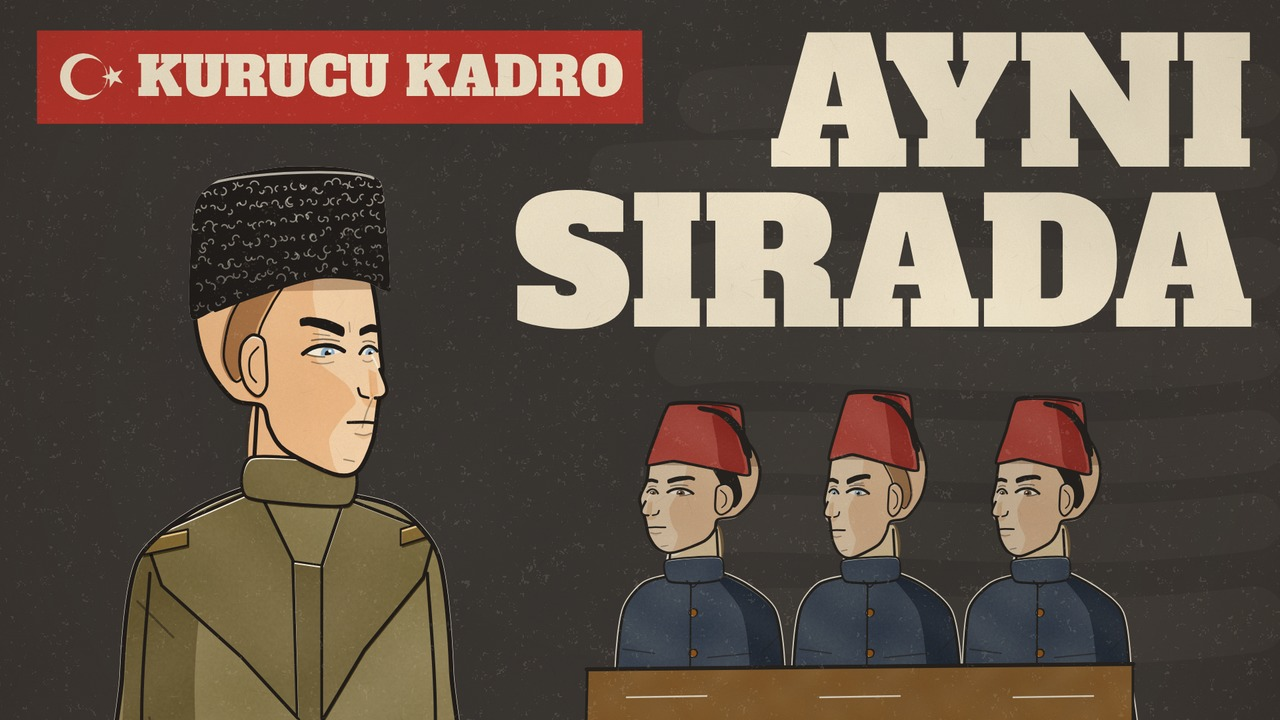
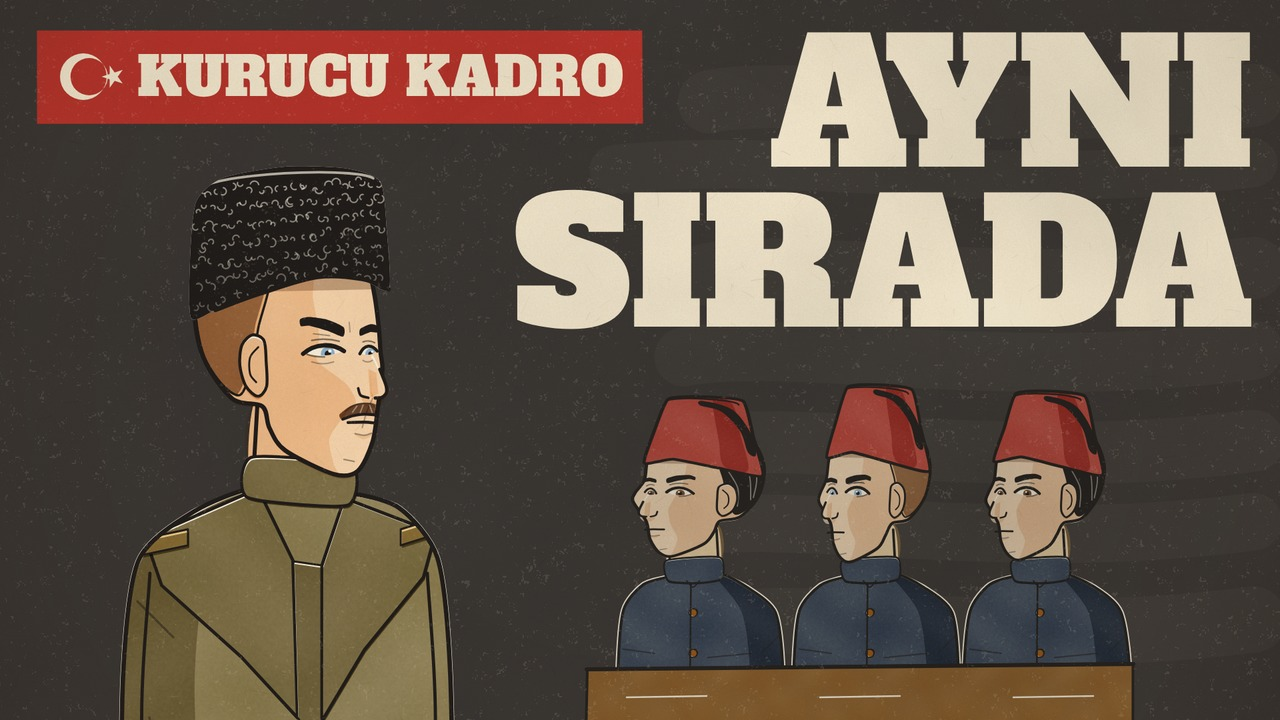
29 Ekim: kapaklar 8. turda yeniden 10/10 (fotoğraflara uygun bıyık); sanat kurulu ortak ilkelleri (ense saçı, opak sakal, çocuk yüzü, tek siluet el, düz gövde altı, yan ayırma konturu, kayık baskı geçişi); bölüm düzeltmeleri
Claude-Session: https://claude.ai/code/session_01DiDBP9nt13NfhJBgndipC7

diff --git a/cumhuriyet/lib/people.js b/cumhuriyet/lib/people.js
@@ -27,6 +27,8 @@ const PEOPLE = {
 // Birimler: göz hizası 0, tepe -64, çene ucu +57; yüz +x'e bakar. Burun kökü iki gözün arasında (19,-7); uzak göz burun sırtının ötesinde.
 function head3q(ctx, o) {
   const pp = { ...PEOPLE.anon, ...(PEOPLE[o.who] || {}), ...(o.id || {}) };
+  // çocuk yüzü (sanat kurulu): 16 yaş altında çene dar, yanak dolgun, göz açık, kaş yumuşak, baş gövdeye göre biraz büyük
+  if ((o.age ?? 30) < 16) { Object.assign(pp, { jaw: (pp.jaw || 1) * .92, cheek: (pp.cheek || 1) * 1.08, eyeOpen: .92, brow: 0, bags: 0, lines: 0, cheekWedge: 0 }); o = { ...o, s: o.s * 1.06 }; }
   const s = o.s, dir = o.dir || 1, lw = px => Math.max(1.7 / s, px * Math.pow(s / 1.3, .75) / s);
   const age = o.age ?? 38, sd = pp.seed;
   const yg = clamp(inv(28, 18, age)), old = clamp(inv(36, 44, age));
@@ -51,10 +53,10 @@ function head3q(ctx, o) {
   // saç
   const hairPl = pp.hair;
   let hp;
-  if (o.gear) hp = SP(rough([[-14, -36], [-30, -32], [-40, -18], [-44, 2], [-38, 14], [-30, 4], [-26, -12], [-20, -24]], .3, sd + 2), true, .9);
+  if (o.gear) hp = SP(rough([[-22, -40], [-46, -44], [-57, -26], [-55, -2], [-46, 14], [-36, 20], [-30, 6], [-27, -12]], .3, sd + 2), true, .9); // başlık altında ense saçı (sanat kurulu: baş arkası kel görünmesin)
   else hp = SP(rough([[24, -44], [16, -52], [10, -60], [-6, -67], [-30, -66], [-52, -52], [-61, -26], [-56, 4], [-42, 18], [-32, 8], [-28, -10], [-18, -34], [-4, -47], [6, -53], [14, -48]], .35, sd + 3), true, .85);
-  if (hairPl === 'ink') inkFill(ctx, hp);
-  else { plate(ctx, hairPl, hp, { a: hairPl === 'sepia' ? .55 : 1 }); if (hairPl === 'sepia') plate(ctx, 'gold', hp, { a: .3 }); inkStroke(ctx, hp, lw(1.8)); }
+  if (hairPl === 'ink') { inkFill(ctx, hp); if (o.gear) for (const q of [[[-30, -36], [-46, -20], [-48, 6]], [[-38, -38], [-52, -18], [-50, 4]], [[-26, -30], [-38, -6], [-38, 12]]]) cut(ctx, SP(q, false), lw(1.2), { a: .45 }); }
+  else { plate(ctx, hairPl, hp, { a: hairPl === 'sepia' ? (o.gear ? .7 : .55) : 1 }); if (hairPl === 'sepia') plate(ctx, 'gold', hp, { a: .3 }); inkStroke(ctx, hp, lw(1.8)); }
   if (!o.gear) for (let i = 0; i < 7; i++) { const u = i / 6, q = new Path2D(); q.moveTo(lerp(16, -20, u), lerp(-50, -40, u)); q.quadraticCurveTo(lerp(-10, -36, u), lerp(-66, -54, u), lerp(-44, -56, u), lerp(-46, -14, u)); hairPl === 'ink' ? cut(ctx, q, lw(1.2), { a: .5 }) : inkStroke(ctx, q, lw(1.2), { a: .6 }); }
   // kulak
   const E_ = pp.ear || 1, ear = SP(rough([[-24, -6], [-30, -9], [-35, -4], [-36, 6], [-33, 16], [-27, 21], [-23, 16], [-23, 4]].map(([x, y]) => [-24 + (x + 24) * E_, y]), .2, sd + 4), true, .9);
@@ -122,14 +124,16 @@ function head3q(ctx, o) {
     else if (mus === 'faint') m = [[17, 28.6], [24, 26.6], [31, 26.6], [33.4, 28], [30, 28.4], [24, 27.8], [18, 29.2]];
     else m = [[14, 29], [18.5, 26.4], [26, 24.6], [31, 25.6], [33.5, 27.6], [30, 28.6], [26, 27.8], [20, 29.2], [15, 30.2]];
     if (mus === 'mk') {
-      // Mustafa Kemal 1919–23: koyu, dolgun fırça bıyık; üst kenar burun dibini izler, alt kenar ağız çizgisine paralel ve düz,
-      // uçlar küt ve hafifçe düşük (kapak kurulu, Sivas 1919 / 1921 fotoğrafları)
-      const mk = PL(rough([[15.2, 26.3], [17.5, 25.2], [21, 24.4], [26, 23.9], [29.4, 24.2], [30.9, 25.1], [31.1, 28.2], [30.8, 30.4], [27, 29.9], [22, 29.7], [17.6, 29.9], [15.4, 30.5]], .08, sd + 6));
+      // Mustafa Kemal 1919–23 (Sivas 1919, 1921 fotoğrafları): ağız genişliğini aşan, dolgun ortadan uçlara incelen ve
+      // uçları hafifçe aşağı inen bıyık. Kısa dikdörtgen "fırça" biçiminden kaçınılır (kapak kurulu, 7. tur).
+      const top = [[13.6, 30.0], [15.6, 28.1], [18.6, 25.9], [22, 24.6], [25.2, 24.2], [28.5, 24.4], [31.1, 25.4]];
+      const bot = [[31.0, 30.0], [28.5, 29.7], [25.2, 29.6], [22, 29.8], [19, 30.4], [16.5, 31.2], [14.4, 32.0]];
+      const mk = SP(rough([...top, [31.4, 27.6], ...bot], .06, sd + 6), true, .7);
       // kâğıt örtüsü yok: kalıp tenin üstüne çarpılır, kayık baskı küçük bıyıkta beyaz boşluk açmaz
       { const r = REG.amt; REG.amt = Math.min(r, .6); plate(ctx, 'sepia', mk, { a: 1 }); plate(ctx, 'ink', mk, { a: .17 }); REG.amt = r; }
-      inkStroke(ctx, PL([[15.4, 30.5], [17.6, 29.9], [22, 29.7], [27, 29.9], [30.8, 30.4]], false), lw(2.2));
-      inkStroke(ctx, PL([[17.5, 25.2], [21, 24.4], [26, 23.9], [29.4, 24.2]], false), lw(1.1), { a: .6 });
-      for (const q of [[[20, 25.4], [21.2, 28.6]], [[25.4, 25], [26.4, 28.4]]]) cut(ctx, SP(q, false), lw(1.4), { a: .5 });
+      inkStroke(ctx, SP(bot, false, .7), lw(2.2));
+      inkStroke(ctx, SP(top.slice(1), false, .7), lw(1.1), { a: .55 });
+      for (const q of [[[21.4, 25.6], [19.2, 28.6]], [[24.4, 25.1], [23, 28.8]], [[27.6, 25.1], [28.8, 28.6]]]) cut(ctx, SP(q, false), lw(1.1), { a: .4 }); // kıllar ortadan dışa ve aşağı
     } else {
     const mP = SP(rough(m, .12, sd + 6), true, .9);
     knock(ctx, mP);
@@ -141,8 +145,9 @@ function head3q(ctx, o) {
     }
   }
   if (pp.beard) {
-    const bd = SP(rough([[-20, 30], [-12, 44], [2, 55], [14, 59], [24, 56], [30, 44], [31, 34], [26, 36.5], [20, 40.5], [12, 41.5], [4, 38], [-4, 33], [-12, 28]], .4, sd + 9), true, .8);
-    knock(ctx, bd); plate(ctx, pp.musCol || 'grey', bd, { a: .65 }); inkStroke(ctx, bd, lw(1.8));
+    // favoriden çeneye opak kırçıl sakal (saydam maske gibi durmasın); ağız çizgisi sakalın üstünde kalır
+    const bd = SP(rough([[-24, -4], [-27, 12], [-22, 30], [-10, 46], [2, 57], [14, 63], [24, 58], [31, 46], [31, 36], [26, 38], [20, 41.5], [12, 42.5], [4, 39], [-6, 31], [-13, 17], [-17, 3], [-19, -5]], .4, sd + 9), true, .8);
+    knock(ctx, bd); plate(ctx, pp.musCol || 'grey', bd, { a: 1 }); plate(ctx, 'sepia', bd, { a: .3 }); inkStroke(ctx, bd, lw(1.8));
     const r = rng(sd + 40); for (let i = 0; i < 22; i++) { const x = lerp(-16, 28, r()), y = lerp(38, 55, r()); inkStroke(ctx, PL([[x, y], [x + .6, y + 3]], false), lw(1), { a: .5 }); }
   }
   ctx.restore();
@@ -176,7 +181,7 @@ function headgear(ctx, o) {
     // alt kenar gölgesi alında
     inkStroke(ctx, SP([[-48, -18], [-26, -26], [2, -34], [24, -33], [37, -28]], false), lw(3.2));
   } else if (o.gear === 'fes') {
-    const body = SP(rough([[-50, -18], [-46, -52], [-42, -86], [-12, -90], [14, -88], [24, -58], [32, -28], [10, -32], [-22, -24]], .4, sd + 12), true, .5);
+    const body = SP(rough([[-57, -16], [-50, -52], [-42, -86], [-12, -90], [14, -88], [24, -58], [32, -28], [10, -32], [-22, -24]], .4, sd + 12), true, .5);
     knock(ctx, body); plate(ctx, 'red', body); plate(ctx, 'red', SP([[-46, -22], [-40, -56], [-34, -84], [-20, -88], [-24, -50], [-28, -26]], true), { a: .6 });
     inkStroke(ctx, body, lw(3.6));
     const top = new Path2D(); top.ellipse(-12, -84, 27, 4, -.06, PI, TAU); inkStroke(ctx, top, lw(2));
@@ -218,8 +223,15 @@ function bust(ctx, o) {
   knock(ctx, neck); if (o.skin) plate(ctx, 'skin', neck);
   plate(ctx, o.skin ? 'skin' : 'ochre', SP([[-28, 30], [-29.6, 66], [17, 66], [16, 60], [6, 56]], true), { a: o.skin ? .8 : .42 });
   inkStroke(ctx, SP([[-28, 34], [-29.6, 62]], false), lw(3.2)); inkStroke(ctx, SP([[15, 52], [16, 62]], false), lw(3));
-  const body = SP(rough([[-26, 74], [-64 * W_, 88], [-92 * W_, 112], [-100 * W_, 170], [-102 * W_, len], [74 * W_ * FS, len], [72 * W_ * FS, 168], [66 * W_ * FS, 110], [46 * W_ * FS, 86], [16, 78]], .7, sd), true, .75);
-  if (o.sep) inkStroke(ctx, body, 8 / s, { col: P.paper });
+  // gövde: yanlar ve omuzlar eğri, alt kenar düz (kapsül gibi yuvarlanmaz)
+  const bp = rough([[74 * W_ * FS, len], [72 * W_ * FS, 168], [66 * W_ * FS, 110], [46 * W_ * FS, 86], [16, 78], [-26, 74], [-64 * W_, 88], [-92 * W_, 112], [-100 * W_, 170], [-102 * W_, len]], .7, sd);
+  const body = new Path2D(); spl(body, bp, false, .75); body.closePath();
+  // ayırma konturu yalnız yan(lar)da: 'L' | 'R' ekran yanı, true iki yan; alt kenar ve boyun yok
+  if (o.sep) {
+    const near = bp.slice(0, 5), far = bp.slice(5);
+    const wantL = o.sep === true || o.sep === 'L', wantR = o.sep === true || o.sep === 'R';
+    for (const [side, pts] of [[dir > 0 ? 'R' : 'L', near], [dir > 0 ? 'L' : 'R', far]]) if ((side === 'L' && wantL) || (side === 'R' && wantR)) inkStroke(ctx, SP(pts, false, .75), 8 / s, { col: P.paper });
+  }
   knock(ctx, body); fillC(body);
   if (o.back) plate(ctx, col, body, { a: .35 });
   if (!dark) plate(ctx, col, SP([[-26, 74], [-64 * W_, 88], [-92 * W_, 112], [-100 * W_, 170], [-102 * W_, len], [-58, len], [-60, 170], [-52, 110]], true, .8), { a: .6 });
@@ -308,9 +320,13 @@ function handDraw(ctx, x, y, ang, s, kind = 'rest', o = {}) {
     for (const [yy, L, a] of [[-7, 40, -.06], [-2, 43, -.01], [3, 41, .04], [8, 36, .1]]) parts.push(SP([[22, yy - 2.7], [L, yy - 2.6 + a * 20], [L + 2.7, yy + a * 20], [L, yy + 2.6 + a * 20], [22, yy + 2.7]], true, .9));
     parts.push(SP([[8, -10], [20, -17], [32, -19], [30, -14], [16, -6]], true, .8));
   }
+  // tek siluet (sanat kurulu: iskelet gibi durmasın): önce birleşik yolun kalın dış hattı, üstüne kâğıt ve kalıp; içte en çok 3 ince parmak arası
+  const U = new Path2D(); for (const q of parts) U.addPath(q);
+  inkStroke(ctx, U, lw(5.2));
   for (const q of parts) knock(ctx, q);
   if (o.skin) for (const q of parts) plate(ctx, 'skin', q);
-  { const U = new Path2D(); for (const q of parts) U.addPath(q); ctx.save(); ctx.clip(U); plate(ctx, o.skin ? 'skin' : 'ochre', PL([[-10, 1.5], [60, 1.5], [60, 20], [-10, 20]]), { a: o.skin ? .8 : .38 }); ctx.restore(); }
-  for (const q of parts) inkStroke(ctx, q, lw(2.6));
+  ctx.save(); ctx.clip(U); plate(ctx, o.skin ? 'skin' : 'ochre', PL([[-10, 1.5], [60, 1.5], [60, 20], [-10, 20]]), { a: o.skin ? .8 : .38 }); ctx.restore();
+  const seps = kind === 'point' ? [[[22, 0.5], [29, 0.5]], [[22, 6], [27, 6]]] : [[[24, -4.5], [33, -4.6]], [[24, .5], [34, .6]], [[24, 5.5], [31, 6]]];
+  for (const q of seps) inkStroke(ctx, PL(q, false), lw(1.3), { a: .6 });
   ctx.restore();
 }

diff --git a/cumhuriyet/lib/act6.js b/cumhuriyet/lib/act6.js
@@ -147,14 +147,21 @@ function a6_tbmm(ctx, t) {
   });
   ctx.restore();
   chapterCard(ctx, 'VI', 'CUMHURİYET', 'TBMM · 29 EKİM 1923 · 20.30', lt - .5, 2.75);
-  // bayrağın solunda ve üstünde: bayrak açıkta kalır
-  bigStamp(ctx, 'YAŞASIN CUMHURİYET!', 590, 242, lt - tY, 99, { size: 90 });
+  // bayrağın solunda ve üstünde: bayrak açıkta kalır (ölçek çapası metnin ortası; sol ≥96, gönderle arası ≥30)
+  if (!NOTEXT && lt >= tY) {
+    const poleX = 960 + (FL.x - (960 + 45 * p)) * (1 + .063 * p) + c.sx, xr = Math.min(1190, poleX - 30), xl = 96;
+    const u = clamp((lt - tY) / .18), k = 1 + (1 - E.out3(u)) * .08;
+    ctx.save(); ctx.font = FONT.title(90); ctx.letterSpacing = '2px'; const tw = ctx.measureText('YAŞASIN CUMHURİYET!').width; ctx.restore();
+    const fs = Math.min(90, 90 * (xr - xl) / (tw * 1.08)), cx = (xl + xr) / 2;
+    ctx.save(); ctx.globalAlpha = Math.min(1, u * 3); ctx.translate(cx, 242); ctx.scale(k, k);
+    txt(ctx, 'YAŞASIN CUMHURİYET!', 0, 0, FONT.title(fs), { align: 'center', base: 'middle', ls: 2 });
+    ctx.restore();
+  }
 }
 // duvar saati (sakaklı, rakamsız kadran): "saat sekiz buçukta" — yelkovan "buçukta" 29'dan 30'a atlar
 function a6_saatBG(g) {
   paperBG(g);
   plate(g, 'ochre', PL([[-20, -20], [W + 20, -20], [W + 20, H + 20], [-20, H + 20]]), { a: .3 });
-  for (const [rr, a] of [[230, .14], [150, .24]]) { const q = new Path2D(); q.ellipse(1520, 70, rr * 1.2, rr * .8, 0, 0, TAU); plate(g, 'gold', q, { a }); }
   const pan = PL([[-20, 900], [W + 20, 900], [W + 20, H + 20], [-20, H + 20]]); plate(g, 'ochre', pan, { n: 2 }); plate(g, 'sepia', pan, { a: .35 }); inkStroke(g, PL([[-20, 900], [W + 20, 900]], false), 3.4);
   // kasa
   plate(g, 'ink', PL([[716, 136], [1236, 136], [1236, 1010], [716, 1010]]), { a: .3 });
@@ -230,6 +237,11 @@ function a6_shotUcBust() {
     ctx.restore();
     ctx.restore();
     for (const f of L) nameTag(ctx, f.x, 640, f.name, f.sub, st.lt - f.tn, 3.4, { align: 'center', size: 44, sub: 28 });
+    stamp(ctx, '30 EKİM 1923', 100, 92, st.lt - (a0_W('G02', 'ertesi') - T0), 99, { size: 34 });
+    // "aynı": üç diplomayı bağlayan kırmızı çizgi (aynı okul)
+    { const ta = a0_W('G02', 'aynı') - T0, u = E.out3(ramp(st.lt, ta, ta + .6));
+      if (u > 0) { const x0 = XS[0] - 230, x1 = lerp(x0, XS[2] + 230, u); plate(ctx, 'red', PL([[x0, 1022], [x1, 1022], [x1, 1030], [x0, 1030]]));
+        for (const x of XS) if (x1 >= x) { const d = new Path2D(); d.arc(x, 1026, 9, 0, TAU); knock(ctx, d); plate(ctx, 'red', d); inkStroke(ctx, d, 2); } } }
     // "Üçü de aynı kurmay okulunun mezunuydu": diplomalar sırayla damgalanır
     const tD = a0_W('G02', 'üçü') - T0;
     [1, 0, 2].forEach((k, j) => a6_diploma(ctx, L[k].x, 852, [-.03, .02, -.015][k], 640 + k, st.lt - tD - j * .28, L[k].dip));
@@ -238,8 +250,8 @@ function a6_shotUcBust() {
 
 // ——— G03 · 1924: şerit çatlar; ama hepsi aynı yerden: okul sırası ve siper ———
 const A6_SIX = [
-  { who: 'karabekir', gear: 'kalpak', coat: 'kaput', col: 'khaki', age: 42, seed: 11, lab: 'KARABEKİR', w: 'karabekir' },
-  { who: 'alifuat', gear: 'kalpak', coat: 'kaput', col: 'khaki', age: 42, seed: 13, lab: 'ALİ FUAT', w: 'ali' },
+  { who: 'karabekir', gear: 'kalpak', coat: 'civil', col: 'ink', age: 42, seed: 11, lab: 'KARABEKİR', w: 'karabekir' },
+  { who: 'alifuat', gear: 'kalpak', coat: 'civil', col: 'sepia', age: 42, seed: 13, lab: 'ALİ FUAT', w: 'ali' },
   { who: 'rauf', gear: null, coat: 'civil', col: 'navy', age: 43, seed: 15, lab: 'RAUF', w: 'rauf' },
   { who: 'mk', gear: null, coat: 'civil', col: 'ink', age: 43, seed: 3 },
   { who: 'ismet', gear: 'kalpak', coat: 'kaput', col: 'khaki', age: 40, seed: 5 },
@@ -279,21 +291,17 @@ function a6_shotCatlak() {
       ctx.restore();
     });
     ctx.restore();
-    stamp(ctx, 'TERAKKİPERVER FIRKA · 1924', 70, 930, st.lt - tM - .2, tA - tM + .7, { size: 32 });
+    stamp(ctx, 'TERAKKİPERVER CUMHURİYET FIRKASI · 1924', 100, 934, st.lt - tM - .2, tA - tM + .7, { size: 26 });
     // 1924 damgası (çatlakla birlikte)
     label(ctx, '1924', W / 2, 108, FONT.title(78), { align: 'center', ls: 4, a: ramp(st.lt, tC - .3, tC) });
     if (!NOTEXT) { const ty = ramp(st.lt, tA + .4, tA + .9); label(ctx, 'AYNI YERDEN', W / 2, 960, FONT.title(64), { align: 'center', ls: 4, a: ty }); }
   }, { tr: { type: 'cut' }, post: { vig: .9 } });
-  // "bir okul sırasından…": 1893 mektep sırası (A04 ile aynı kare; geri dönüş)
+  // "bir okul sırasından…": A04'teki 1893 karesinin aynısı (aynı kadraj, aynı yaş satırı)
   shot(a0_W('G03', 'okul') - .15, (ctx, st) => {
     setReg(137);
     paperBG(ctx);
-    const p = ramp(st.lt, 0, st.d, E.io2), c = { x: 960 + 26 * p, y: 540, z: 1.04 + .03 * p };
-    const bg = a0_cache('a0-k93-bg', g => a0_classBG(g, 150, 740));
-    a0_layer(ctx, bg, c, .8);
-    ctx.save(); cam(ctx, c, 1); a0_classKids(ctx, st.t, 150, 740); ctx.restore();
-    A0_ORD.forEach((i, k) => a0_age(ctx, A0_XS[i], 862, A0_AGE93[i], 'yaşında', st.lt + .3 - k * .06));
-    label(ctx, '1893', W / 2, 108, FONT.title(78), { align: 'center', ls: 4 });
+    const p0 = ramp(a0_W('A04', 'otuz'), A0_CAM0, A0_CAM1, E.lin);
+    a0_class93(ctx, st.t, p0 + .18 * ramp(st.lt, 0, st.d, E.lin));
   }, { tr: { type: 'cut' }, post: { vig: .9 } });
   // "…ve bir siperden": aynı sıra, kabalaklı, siperde omuz omuza (1915)
   shot(a0_W('G03', 'siperden') - .2, (ctx, st) => {
@@ -332,7 +340,7 @@ function a6_shotCatlak() {
     }
     ctx.restore();
     ctx.restore();
-    [31, 31, 34, 33, 33].forEach((a, i) => a0_age(ctx, A0_XS[i], 862, a, 'yaşında', st.lt + .3 - Math.abs(i - 2) * .06));
+    [31, 30, 34, 33, 32].forEach((a, i) => a0_age(ctx, A0_XS[i], 862, a, 'yaşında', st.lt + .3 - Math.abs(i - 2) * .06));
     label(ctx, '1915', W / 2, 108, FONT.title(78), { align: 'center', ls: 4 });
   }, { tr: { type: 'cut' }, post: { vig: .9 } });
 }
@@ -383,10 +391,12 @@ function a6_shotBugun() {
     });
     a0_layer(ctx, bg, c, .8);
     ctx.save(); cam(ctx, c, 1);
-    // tebeşir: "yazılır"da yazı harf harf belirir
-    const tw = a0_W('G04', 'bugünkü') - T0, s1 = 'Cumhuriyet 103 yaşında';
-    const n = Math.floor(clamp((st.lt - tw) / 1.5) * s1.length);
+    // tebeşir: "ders"te dersin cümlesi harf harf yazılır; "yazılır"da altı çizilir
+    const tw = a0_W('G04', 'ders') - T0, s1 = 'Cumhuriyet 103 yaşında';
+    const n = Math.floor(clamp((st.lt - tw) / 1.2) * s1.length);
     if (n > 0) txt(ctx, s1.slice(0, n), 960, 312, FONT.quote(76), { align: 'center', col: '#EDE6D2' });
+    const tz = a0_W('G04', 'yazılır') - T0, uz = E.out2(ramp(st.lt, tz, tz + .45));
+    if (uz > 0) cut(ctx, SP([[660, 336], [lerp(660, 1262, uz * .5), 340], [lerp(660, 1262, uz), 334]], false), 4.5, { col: '#EDE6D2', a: .9 });
     ctx.save(); ctx.beginPath(); ctx.rect(-40, B0 + 2, W + 80, B1 - B0 - 4); ctx.clip();
     A6_KIDS.forEach((f, i) => a0_fig(ctx, { who: 'anon', id: f.id, x: A0_XS[i], y: 452, s: 1.2, dir: -1, w: .84, len: (B1 - 452) / 1.2 + 10, age: 12, gear: null, coat: 'plain', col: f.col, look: [.2, .25], sep: true, seed: 60 + i,
       under: (cx, x, y, s, dir, tl) => { a6_collar(cx, x, y, s, dir, tl); if (f.style) a6_hair(cx, x, y, s, dir, tl, f); } }, st.t));
@@ -517,12 +527,19 @@ function a6_shotBitis() {
     a6_flag(ctx, 303, 132, 200, st.t, { amp: 14, speed: 2.2 });
     // alt şerit: yedi baş küçük ölçekte
     ctx.save(); ctx.beginPath(); ctx.rect(X0 + 18, 814, X1 - X0 - 36, 178); ctx.clip();
-    a0_seven(ctx, st.t, 9, [-9, -9, -9, -9, -9, -9, -9], { y: 900, s: .66, yb: 994, xs: [160, 266, 372, 480, 588, 694, 800], look: [.3, .25] });
+    a0_seven(ctx, st.t, st.lt, [4.4, 4.2, 4.0, 3.8, 4.0, 4.2, 4.4].map(x => x + .9), { y: 900, s: .66, yb: 994, xs: [160, 266, 372, 480, 588, 694, 800], look: [.3, .25] });
     ctx.restore();
     ctx.restore();
-    label(ctx, '29 EKİM 1923', 480, 470, FONT.mono(36), { align: 'center', ls: 6, force: true });
-    label(ctx, '103. YIL', 480, 640, FONT.title(150), { align: 'center', ls: 4, force: true });
-    label(ctx, 'KUTLU OLSUN', 480, 740, FONT.title(64), { align: 'center', ls: 6, force: true, plate: 'red' });
+    const L = st.lt, f = (t0) => ramp(L, t0, t0 + .35);
+    label(ctx, '29 EKİM 1923', 480, 470, FONT.mono(36), { align: 'center', ls: 6, force: true, a: f(.6) });
+    { const h = a0_hit(L, 1.2, .16); if (h.a > 0) { ctx.save(); ctx.globalAlpha = h.a; ctx.translate(480, 590); ctx.scale(h.k, h.k); txt(ctx, '103. YIL', 0, 50, FONT.title(150), { align: 'center', ls: 4 }); ctx.restore(); } }
+    label(ctx, 'KUTLU OLSUN', 480, 740, FONT.title(64), { align: 'center', ls: 6, force: true, plate: 'red', a: f(2.0) });
+    // sağ yarı: yalnız yönlendirme yazıları; video öğesi (y ≈ 260–) ve abone öğesi (≈ 1420, 870) için alan boş
+    label(ctx, 'SIRADAKİ HİKÂYE', 1420, 175 + 20, FONT.title(56), { align: 'center', ls: 3, a: f(2.8) });
+    { const u = E.out2(ramp(L, 3.1, 3.6)); if (u > 0) { const y1 = lerp(200, 245, u);
+      inkStroke(ctx, SP([[1420, 200], [1422, (200 + y1) / 2], [1420, y1]], false), 4);
+      if (u > .95) inkStroke(ctx, PL([[1406, 230], [1420, 247], [1435, 229]], false), 4); } }
+    label(ctx, 'ZAMAN KURYESİ’NE ABONE OL', 1420, 1010 + 11, FONT.mono(32), { align: 'center', ls: 3, a: f(3.4) });
   }, { tr: { type: 'press', dur: .8 }, post: { vig: .7 } });
 }
 

diff --git a/cumhuriyet/lib/act0.js b/cumhuriyet/lib/act0.js
@@ -166,6 +166,8 @@ function a0_kosk(g, hx, hy, hs) {
   plate(g, 'navy', PL([[-300, -280], [300, -280], [300, -258], [-300, -258]]), { a: .7 });
   for (let i = 1; i < 14; i++) inkStroke(g, PL([[-300, -i * 20], [300, -i * 20]], false), 1, { a: .12 });
   for (const sx of [-1, 1]) plate(g, 'navy', PL([[sx * 300, 0], [sx * 268, 0], [sx * 268, -280], [sx * 300, -280]]), { a: .35 }); // köşe taşları
+  // sofra pencerelerinin cepheye vuran ışığı (düz, açık ton; yalnız pencerelerin çevresi)
+  g.save(); g.globalAlpha = .85; knock(g, PL([[96, -6], [264, -6], [264, -128], [96, -128]]), '#F7EDD6'); g.restore();
   inkStroke(g, PL([[-306, -140], [306, -140]], false), 5);
   inkStroke(g, wall, 3.6);
   // pencereler: [x, yAlt, w, h, ışık 0 karanlık / 1 loş / 2 odak]
@@ -175,17 +177,16 @@ function a0_kosk(g, hx, hy, hs) {
   for (const [x, yb, w, h, L] of wins) {
     const pane = PL([[x - w / 2, yb], [x + w / 2, yb], [x + w / 2, yb - h], [x - w / 2, yb - h]]);
     knock(g, pane);
-    if (L === 2) { knock(g, pane, '#FFF7E4'); plate(g, 'gold', pane, { a: .18 }); }
+    if (L === 2) { knock(g, pane, '#FFFCF2'); plate(g, 'gold', pane, { a: .08 }); }
     else if (L === 1) { plate(g, 'gold', pane, { a: .75 }); plate(g, 'ochre', pane, { a: .55 }); }
     else { plate(g, 'navy', pane, { n: 2 }); plate(g, 'ink', pane, { a: .25 }); }
     if (L === 2) {
       g.save(); g.clip(pane);
-      if (x < 200) { a0_prof(g, x - 16, yb - 34, .2, 1, 'kalpak', { seed: 3 }); a0_prof(g, x + 14, yb - 30, .19, 1, 'bare', { seed: 4 }); }
-      else a0_fig(g, { x: x + 6, y: yb - 62, s: .2, dir: -1, who: 'mk', age: 42, gear: null, coat: 'civil', col: 'ink', len: 300, look: [1, .3], blink: false, idle: 0 }, 0);
+      if (x < 200) { a0_prof(g, x - 14, yb - 12, .16, 1, 'kalpak', { seed: 3 }); a0_prof(g, x + 14, yb - 10, .15, 1, 'bare', { seed: 4 }); }
+      else a0_fig(g, { x: x + 8, y: yb - 34, s: .13, dir: -1, who: 'mk', age: 42, gear: null, coat: 'civil', col: 'ink', len: 300, look: [1, .3], blink: false, idle: 0 }, 0);
       g.restore();
-      plate(g, 'ochre', PL([[x - w / 2, yb - h], [x + w / 2, yb - h], [x + w / 2, yb - h + 14], [x - w / 2, yb - h + 14]]), { a: .5 }); // perde saçağı
     }
-    inkStroke(g, pane, 3); inkStroke(g, PL([[x, yb], [x, yb - h]], false), 2.4); inkStroke(g, PL([[x - w / 2, yb - h * .62], [x + w / 2, yb - h * .62]], false), 2.4);
+    const mw = L === 2 ? 1.6 : 2.4; inkStroke(g, pane, L === 2 ? 2.4 : 3); inkStroke(g, PL([[x, yb], [x, yb - h]], false), mw); inkStroke(g, PL([[x - w / 2, yb - h * .62], [x + w / 2, yb - h * .62]], false), mw);
     if (L === 0) for (const sx of [-1, 1]) { const sh = PL([[x + sx * w / 2, yb], [x + sx * (w / 2 + 16), yb], [x + sx * (w / 2 + 16), yb - h], [x + sx * w / 2, yb - h]]); plate(g, 'navy', sh, { n: 2 }); inkStroke(g, sh, 2); }
     inkFill(g, PL([[x - w / 2 - 8, yb], [x + w / 2 + 8, yb], [x + w / 2 + 8, yb + 6], [x - w / 2 - 8, yb + 6]]));
   }
@@ -242,7 +243,7 @@ function a0_shotKoskDis() {
     // köşk + kavaklar + tepe (paralaks 1)
     const house = a0_cache('a0-kosk-house', g => {
       const ground = SP([[-40, 1120], [-40, 800], [300, 780], [600, 772], [1200, 772], [1500, 784], [1960, 800], [1960, 1120]], true, .5);
-      plate(g, 'navy', ground, { a: .92 }); plate(g, 'ink', ground, { a: .22 });
+      plate(g, 'navy', ground, { a: .92 }); plate(g, 'ink', ground, { a: .32 });
       inkStroke(g, SP([[-40, 800], [300, 780], [600, 772], [1200, 772], [1500, 784], [1960, 800]], false, .5), 3);
       for (const [x, h, w, sd] of [[372, 470, 78, 3], [456, 390, 62, 4], [1280, 500, 84, 5], [1376, 420, 68, 6], [1466, 350, 58, 7], [1800, 300, 54, 8]]) a0_poplar(g, x, 782, h, w, sd);
       a0_kosk(g, HX, HY, HS);
@@ -250,7 +251,7 @@ function a0_shotKoskDis() {
       const rb = rng(23);
       for (const [x0, x1] of [[HX - 330 * HS, HX - 90 * HS], [HX + 90 * HS, HX + 330 * HS]]) {
         const pts = [[x0, HY + 14]];
-        for (let x = x0; x <= x1; x += 26) pts.push([x, HY - 18 - rb() * 26]);
+        for (let x = x0; x <= x1; x += 26) pts.push([x, HY - 4 - rb() * 14]);
         pts.push([x1, HY + 14]);
         const bush = SP(pts, true, .9); inkFill(g, bush); plate(g, 'navy', bush, { a: .4 });
         for (let x = x0 + 14; x < x1; x += 30) { const q = new Path2D(); q.arc(x, HY - 6 - rb() * 10, 6, PI * 1.1, PI * 1.9); cut(g, q, 1.6, { a: .3 }); }
@@ -528,7 +529,7 @@ function a0_shotStrips() {
     setReg(137);
     paperBG(ctx);
     a0_class93(ctx, st.t, ramp(st.t, A0_CAM0, A0_CAM1, E.lin));
-  }, { tr: { type: 'fade', dur: .1 }, post: { vig: .9 } });
+  }, { tr: { type: 'cut' }, post: { vig: .9 } }); // eşleşme kesmesi (doğrudan)
 }
 // "bir gün karşısına dikilecekleri…": AYNI SIRA (kapağın vaadi) — beş çocuk aynı sırada; sınıfın sağ duvarında
 // Abdülhamid portresi. "sultanın" kelimesinde kamera duvardaki portreye kayar ve portre çekimine bağlanır.

diff --git a/cumhuriyet/lib/main.js b/cumhuriyet/lib/main.js
@@ -35,11 +35,15 @@ window.renderFrame = renderFrame; window.renderFrameMB = renderFrameMB;
 // K1 baskı geçişi (press) yalnız bölüm imzası ve dört özel anda kalır, öbürleri düz kesme olur;
 // K2 cümle başına bağlı geçiş cümlenin ilk kelimesinden önce biter (kesme 0,1 sn önce; baskı süresi + 0,1 sn önce).
 function cutRules() {
-  const ok = ['B01', 'C01', 'D01', 'E01', 'F01', 'G01', 'C05'].map(S).concat([Wd('A01', 'küçük') - .3, S('A05') - .45, S('G06') - .3]);
+  // sanat kurulu A9: merdane (press) yalnız bölüm başlarında; imza geçiş "reg" (kayık baskı oturması) özel anlarda
+  const chap = ['B01', 'C01', 'D01', 'E01', 'F01', 'G01'].map(S);
+  const regAt = [Wd('A01', 'küçük') - .3, S('A05') - .45, S('C05'), S('G06') - .3];
   const starts = Object.values(CUES).map(c => c.s);
   for (const sh of SHOTS) {
     if (sh.at <= 0) continue;
-    if (sh.tr && sh.tr.type === 'press' && !ok.some(x => Math.abs(sh.at - x) < 1.2)) sh.tr = { ...sh.tr, type: 'cut' };
+    const near = xs => xs.some(x => Math.abs(sh.at - x) < 1.2);
+    if (sh.tr && sh.tr.type === 'press' && !near(chap)) sh.tr = near(regAt) ? { type: 'reg', dur: .5 } : { ...sh.tr, type: 'cut' };
+    else if (sh.tr && ['fade', 'clay', 'ink', 'wipe', 'iris', 'black', 'white'].includes(sh.tr.type)) sh.tr = { type: 'reg', dur: .5 };
     const s0 = starts.find(x => sh.at > x - .2 && sh.at < x + .35);
     if (s0 == null) continue;
     sh.at = !sh.tr || sh.tr.type === 'cut' ? s0 - .1 : s0 - (sh.tr.dur || .7) - .1;

diff --git a/cumhuriyet/lib/film.js b/cumhuriyet/lib/film.js
@@ -48,7 +48,14 @@ function drawFilm(ctx, t) {
   const i = shotAt(t), sh = SHOTS[i];
   if (!sh) { paperBG(ctx); return; }
   const tr = sh.tr;
-  if (tr && i > 0 && t < sh.at + tr.dur && tr.type !== 'cut') {
+  if (tr && i > 0 && t < sh.at + tr.dur && tr.type === 'reg') {
+    // kayık baskı oturması (imza geçiş): yeni kare doğrudan gelir; kalıplar kayık basılıp yerine oturur, üstünde kayan bir çarpma gölgesi söner
+    const p = clamp((t - sh.at) / tr.dur);
+    REG.boost = 1 + 3 * (1 - E.out3(p)); drawShot(ctx, i, t); REG.boost = 1;
+    bufAx.setTransform(1, 0, 0, 1, 0, 0); bufAx.globalAlpha = 1; bufAx.globalCompositeOperation = 'copy'; bufAx.drawImage(ctx.canvas, 0, 0); bufAx.globalCompositeOperation = 'source-over';
+    ctx.save(); ctx.setTransform(1, 0, 0, 1, 0, 0); ctx.globalCompositeOperation = 'multiply'; ctx.globalAlpha = .45 * (1 - E.out3(p));
+    ctx.drawImage(bufA, 12 * RS * (1 - p), 7 * RS * (1 - p)); ctx.restore();
+  } else if (tr && i > 0 && t < sh.at + tr.dur && tr.type !== 'cut') {
     const p = clamp((t - sh.at) / tr.dur);
     // baskı geçişi: yeni sahnenin kalıpları kayık basılır, sonra yerine oturur
     if (tr.type === 'press') REG.boost = 1 + 5 * (1 - E.out3(p));

diff --git a/cumhuriyet/lib/act4.js b/cumhuriyet/lib/act4.js
@@ -1046,7 +1046,7 @@ const a4_KUSAK = {
         a4_officer(ctx, { x, y: y + io.breath, s: 1.02, dir: -1, who, age: Y - a4_KUSAK.born[who], seed: a4_KUSAK.seed[who], len: (H + 40 - y) / 1.02, lookAt: look, tilt: io.head * .5, turn: .25, w: 1.02 }));
     });
     ctx.restore();
-    order.forEach((who, i) => a4_tag(ctx, a4_KUSAK.short[who] + ' · ' + (Y - a4_KUSAK.born[who]), 330 + i * 318 - 112, 1040, null, null, E.out2(ramp(t, tBu + .5 + i * .22, tBu + .8 + i * .22)) * (1 - ramp(t, tO + .6, tO + 1)), { size: 22 }));
+    order.forEach((who, i) => { const lb = (who === 'mk' ? 'M. KEMAL' : a4_KUSAK.short[who]) + ' · ' + (Y - a4_KUSAK.born[who]); a4_tag(ctx, lb, 330 + i * 318 - (lb.length * 15.4 + 28) / 2, 1040, null, null, E.out2(ramp(t, tBu + .5 + i * .22, tBu + .8 + i * .22)) * (1 - ramp(t, tO + .6, tO + 1)), { size: 22 }); });
   }, { tr: { type: 'clay', dur: .8 }, post: { stone: .26 } });
 }
 

diff --git a/cumhuriyet/lib/ui.js b/cumhuriyet/lib/ui.js
@@ -40,7 +40,7 @@ function nameTag(ctx, x, y, name, sub, lt, d = 3.4, o = {}) {
   if (NOTEXT) return;
   const a = env(lt, 0, .2, d - .4, d); if (a <= 0) return;
   const fs = o.size || 46, ss = o.sub || 30;
-  ctx.save(); ctx.font = FONT.title(fs); const w1 = ctx.measureText(name).width; ctx.font = FONT.mono(ss); const w2 = ctx.measureText(sub || '').width; ctx.restore();
+  ctx.save(); ctx.font = FONT.title(fs); ctx.letterSpacing = '1px'; const w1 = ctx.measureText(name).width; ctx.font = FONT.mono(ss); ctx.letterSpacing = '0px'; const w2 = ctx.measureText(sub || '').width; ctx.restore();
   const w = Math.max(w1, w2) + 48, h = fs + ss + 38;
   // güvenli alan (x 96–1824, y 54–1026): levha kenarda kesilmez
   const x0 = clamp(o.align === 'center' ? x - w / 2 : o.align === 'right' ? x - w : x, 96, 1824 - w);

diff --git a/cumhuriyet/KURUL.md b/cumhuriyet/KURUL.md
@@ -14,7 +14,7 @@
 | 8 | Dönem görsel doğruluğu (üniforma, başlık, mekân, harita, yazı) | Tarih danışmanı; dönem uzmanı | – | Film birleşince |
 | 9 | Müzik | Ses kurulu: müzik direktörü | – | Besteci bitirince |
 | 10 | Ses tasarımı (efektler) ve miks | Ses kurulu: ses tasarımcısı, miks mühendisi | – | Miksten sonra |
-| 11 | Kapak (A/B) | Kapak (TO/paketleme) kurulu | **10** (A′ ve B′, 5. tur) | ONAY: kapak.jpg (varsayılan), kapak_b.jpg |
+| 11 | Kapak (A/B) | Kapak (TO/paketleme) kurulu | **10** (A′ ve B′, 8. tur: bıyık ve ortak ilkeller sonrası) | ONAY: kapak.jpg (varsayılan), kapak_b.jpg |
 | 12 | Başlık, açıklama, etiketler, bölümler | Kapak (TO/paketleme) kurulu | – | Kapaktan sonra |
 | 13 | Shorts | Kanca kurulu; tipografi tasarımcısı | – | Render sonrası |
 | 14 | Altyazı (SRT: doğruluk, okuma hızı, satır bölme) | Teknik ve erişilebilirlik kurulu | – | Sonda |
